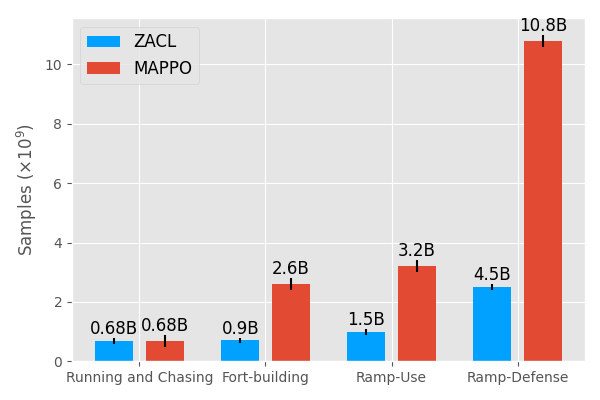
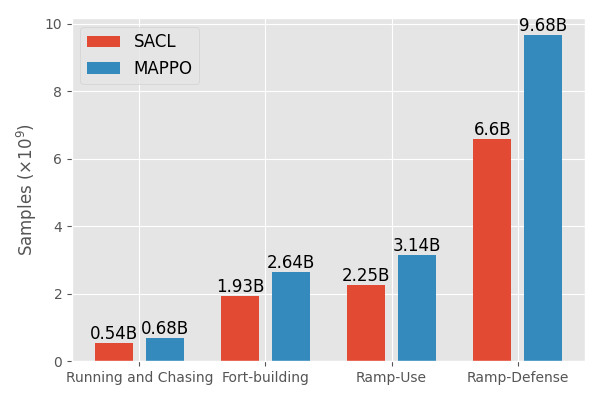
update

diff --git a/plot_barchart.py b/plot_barchart.py
@@ -14,29 +14,32 @@ f, ax = plt.subplots(1, 1, figsize=(6, 4))
 # format: [chase, box locking, use ramp, ramp defense]
 # zacl
 x1 = [1.5, 6.5, 11.5, 16.5]
-samples1 = [0.68, 0.70, 1.0, 2.5]
-yerr1=[0.1, 0.1, 0.1, 0.1]
+samples1 = [0.54, 1.93, 2.25, 6.6]
+# std
+yerr1=[0.0, 0.0, 0.0, 0.0]
 width = 1.5
-bar1 = ax.bar(x1, samples1, width, color="#00A1FF", yerr=yerr1)
+bar1 = ax.bar(x1, samples1, width, yerr=yerr1)
 # fake number : zacl
 # ax.bar_label(bar1, labels=["683M", "683M", "683M", "2.6B", "683M", "3.2B", "683M", "10.8B"])
-ax.bar_label(bar1, labels=["0.68B", "0.9B", "1.5B", "4.5B"], fontsize='12')
+ax.bar_label(bar1, labels=["0.54B", "1.93B", "2.25B", "6.6B"], fontsize='12')
 
 # mappo
 x2 = [3.5, 8.5, 13.5, 18.5]
-samples2 = [0.68, 2.6, 3.2, 10.8]
-yerr2=[0.2, 0.2, 0.2, 0.2]
+samples2 = [0.68, 2.64, 3.14, 9.68]
+# samples2 = [0.66, 2.2, 2.72, 8.37]
+# samples2 = [0.67, 2.93, 3.74, 9.51]
+yerr2=[0.0, 0.0, 0.0, 0.0]
 width = 1.5
 bar1 = ax.bar(x2, samples2, width, yerr=yerr2)
 # fake number : zacl
-ax.bar_label(bar1, labels=["0.68B", "2.6B", "3.2B", "10.8B"], fontsize='12')
+ax.bar_label(bar1, labels=["0.68B", "2.64B", "3.14B", "9.68B"], fontsize='12')
 ax.set_ylabel(r"Samples ($\times 10^9$)", fontsize='12')
 
 phase = ["Running and Chasing", "Fort-building", "Ramp-Use", "Ramp-Defense"]
 x_phase = [2.5, 7.5, 12.5, 17.5]
 ax.set_xticks(x_phase, phase)
 ax.set_xticklabels(phase, rotation=0, fontsize='10')
-ax.legend(['ZACL', 'MAPPO'], fontsize='12')
+ax.legend(['SACL', 'MAPPO'], fontsize='12')
 
 f.tight_layout()
 plt.savefig("samples_bar.png")
